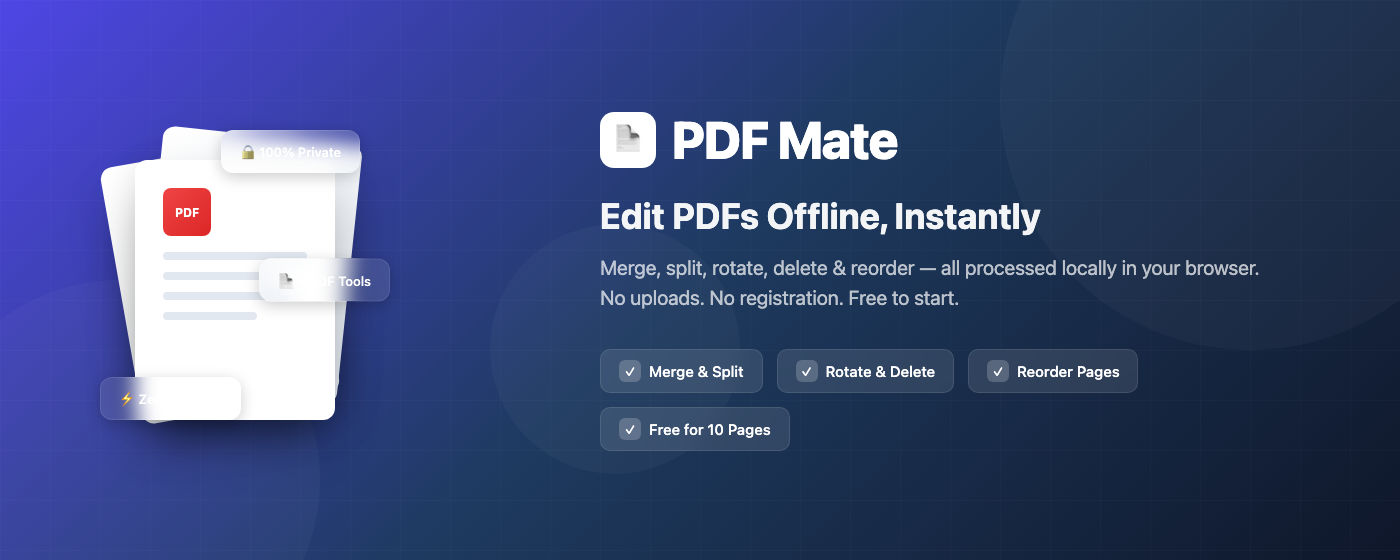
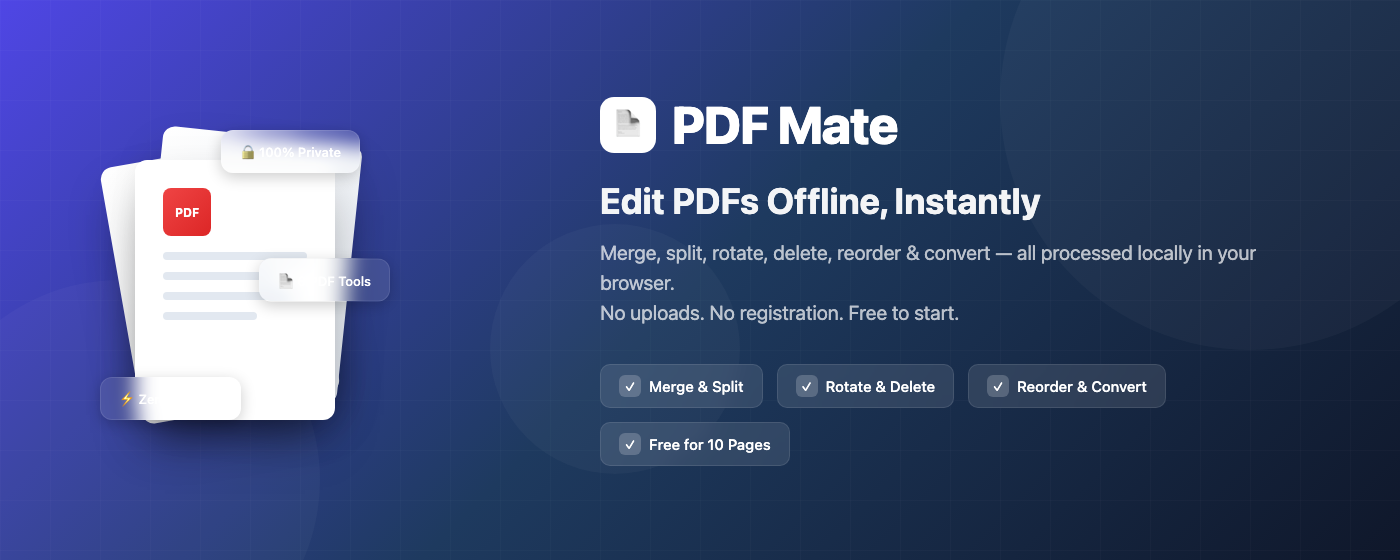
feat: update

diff --git a/large-promo.html b/large-promo.html
@@ -187,7 +187,7 @@
       </div>
       <div class="float-badge badge-1">🔒 100% Private</div>
       <div class="float-badge badge-2">⚡ Zero Uploads</div>
-      <div class="float-badge badge-3">📄 5 PDF Tools</div>
+      <div class="float-badge badge-3">📄 6 PDF Tools</div>
     </div>
     
     <div class="text-content">
@@ -196,11 +196,11 @@
         <div class="brand-text">PDF Mate</div>
       </div>
       <div class="tagline">Edit PDFs Offline, Instantly</div>
-      <div class="subtitle">Merge, split, rotate, delete & reorder — all processed locally in your browser.<br>No uploads. No registration. Free to start.</div>
+      <div class="subtitle">Merge, split, rotate, delete, reorder & convert — all processed locally in your browser.<br>No uploads. No registration. Free to start.</div>
       <div class="features">
         <div class="feature"><div class="feature-icon">✓</div><span>Merge & Split</span></div>
         <div class="feature"><div class="feature-icon">✓</div><span>Rotate & Delete</span></div>
-        <div class="feature"><div class="feature-icon">✓</div><span>Reorder Pages</span></div>
+        <div class="feature"><div class="feature-icon">✓</div><span>Reorder & Convert</span></div>
         <div class="feature"><div class="feature-icon">✓</div><span>Free for 10 Pages</span></div>
       </div>
     </div>

diff --git a/cover-image.html b/cover-image.html
@@ -189,7 +189,7 @@
   
   <div class="float-element float-1">🔒 100% Private</div>
   <div class="float-element float-2">⚡ Fast & Free</div>
-  <div class="float-element float-3">📄 PDF Tools</div>
+  <div class="float-element float-3">📄 6 PDF Tools</div>
   
   <div class="content">
     <div class="pdf-icon">
@@ -210,7 +210,7 @@
         <div class="brand-text">PDF Mate</div>
       </div>
       <div class="tagline">Edit PDFs Offline</div>
-      <div class="subtitle">Merge, split, rotate, delete & reorder<br>— all in your browser</div>
+      <div class="subtitle">Merge, split, rotate, delete, reorder & convert<br>— all in your browser</div>
       <div class="features">
         <div class="feature">
           <div class="feature-icon">✓</div>
